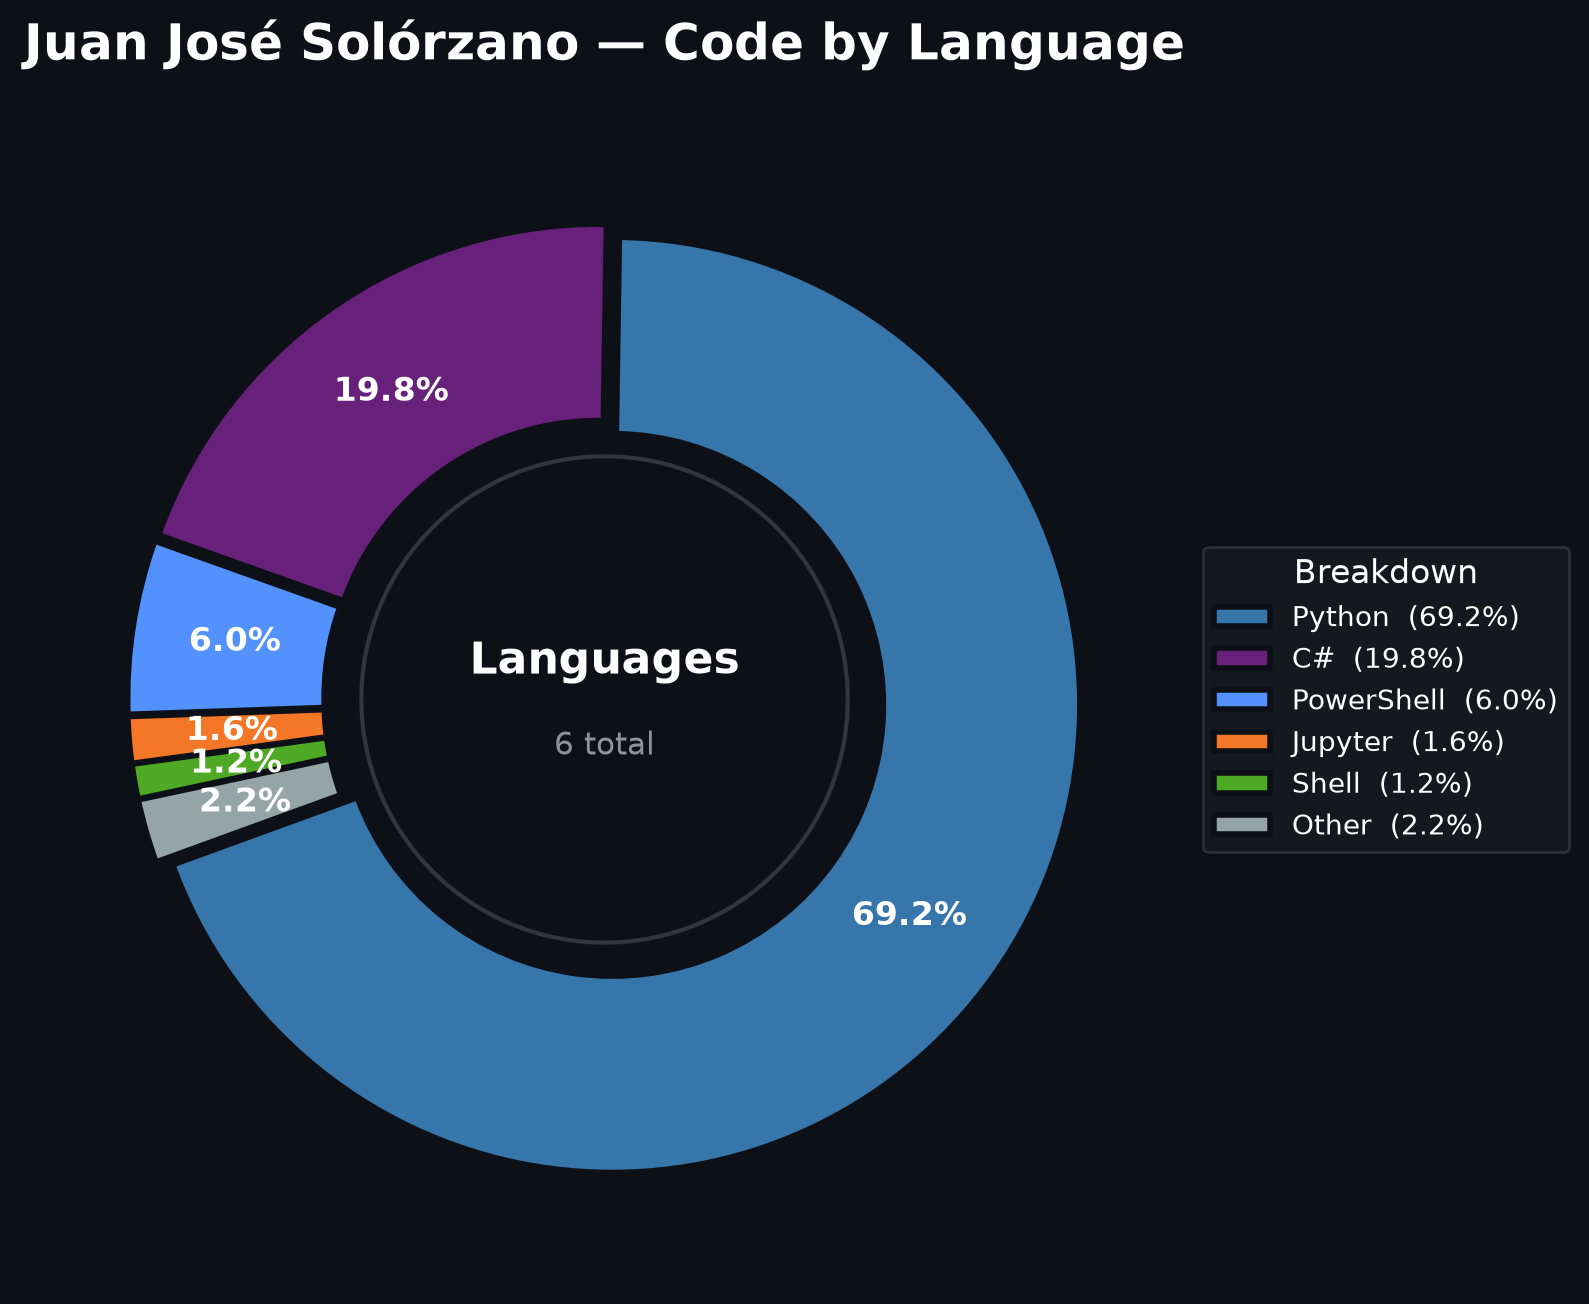
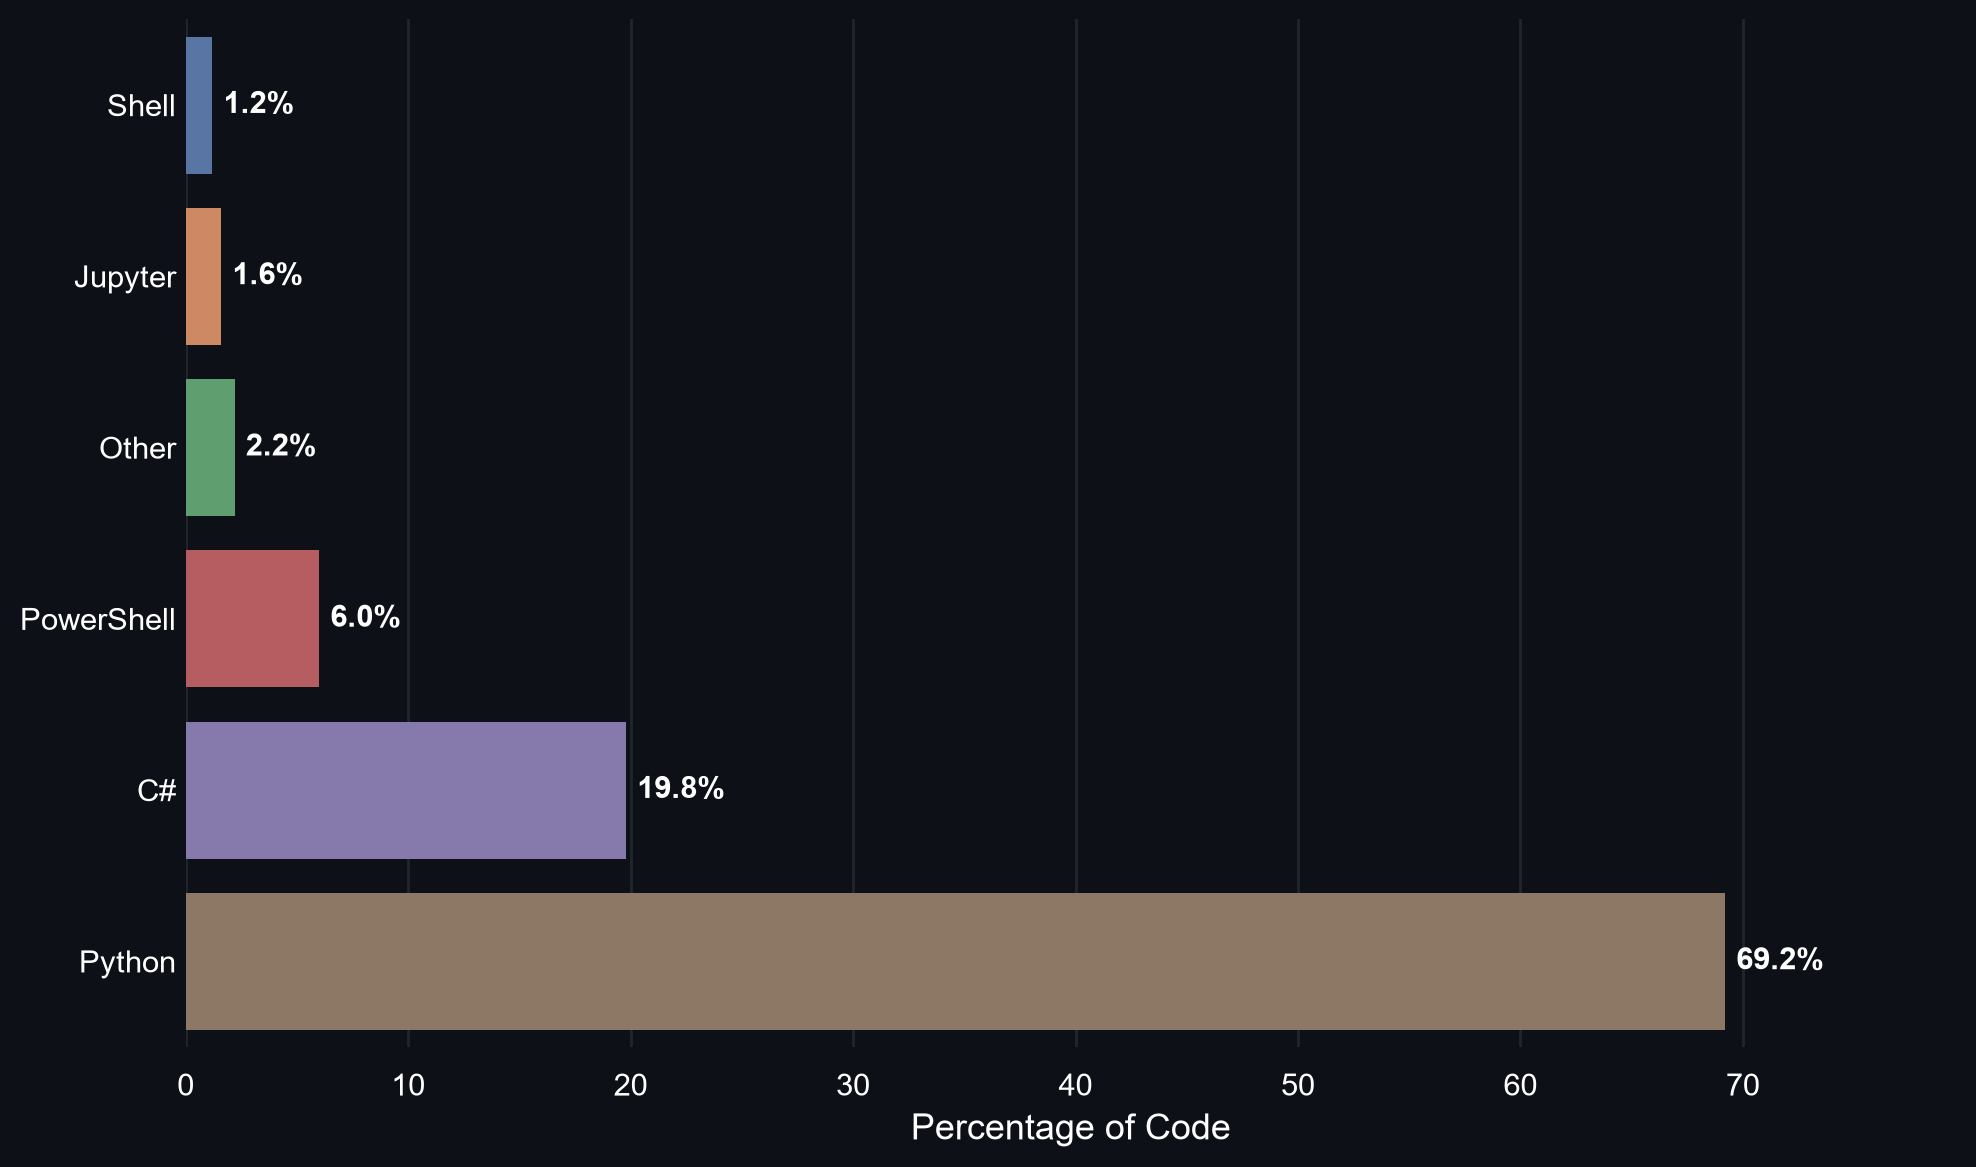
Updated: Readme.md file move to the main folder.

diff --git a/.github/scripts/chart.py b/.github/scripts/chart.py
@@ -1,63 +1,74 @@
 """
-Generate a beautiful donut chart from language stats.
+Generate a beautiful horizontal bar chart from language stats.
+Uses seaborn for styling and matplotlib for customisation.
 Run: python chart.py
 Output: language_chart.png
 """
+import pandas as pd
 import matplotlib.pyplot as plt
-import matplotlib.font_manager as fm
-import numpy as np
+import seaborn as sns
 
 # --- Data from README ---
 languages = ["Python", "C#", "PowerShell", "Jupyter", "Shell", "Other"]
 sizes     = [69.2, 19.8, 6.0, 1.6, 1.2, 2.2]
-colors    = ["#3776AB", "#68217A", "#5391FE", "#F37726", "#4EAA25", "#95A5A6"]
-explode   = (0.02, 0.02, 0.02, 0.02, 0.02, 0.02)
 
-# --- Styling ---
-plt.style.use("dark_background")
-fig, ax = plt.subplots(figsize=(8, 8), facecolor="#0D1117")
-ax.set_facecolor("#0D1117")
+# Create a DataFrame for seaborn
+df = pd.DataFrame({"Language": languages, "Percentage": sizes})
+# Sort so the largest bar is at the top
+df = df.sort_values("Percentage", ascending=True)
 
-wedges, texts, autotexts = ax.pie(
-    sizes,
-    labels=None,
-    autopct="%1.1f%%",
-    startangle=200,
-    pctdistance=0.78,
-    colors=colors,
-    explode=explode,
-    wedgeprops={"width": 0.42, "edgecolor": "#0D1117", "linewidth": 2},
-    textprops={"color": "white", "fontsize": 12, "fontweight": "bold"},
+# --- Seaborn dark theme ---
+sns.set_theme(style="darkgrid", rc={
+    "figure.facecolor": "#0D1117",
+    "axes.facecolor": "#0D1117",
+    "text.color": "white",
+    "axes.labelcolor": "white",
+    "xtick.color": "white",
+    "ytick.color": "white",
+    "grid.color": "#21262D",
+})
+
+fig, ax = plt.subplots(figsize=(10, 6))
+
+# Create the horizontal bar chart (fix for seaborn v0.14+ deprecation)
+palette = sns.color_palette("deep", len(languages))
+bars = sns.barplot(
+    data=df,
+    y="Language",
+    x="Percentage",
+    hue="Language",          # assign y variable to hue to silence the warning
+    palette=palette,
+    legend=False,            # turn off redundant legend
+    ax=ax,
+    edgecolor="none",
+    linewidth=0,
 )
 
-# --- Centre circle for donut ---
-centre_circle = plt.Circle((0, 0), 0.52, fc="#0D1117", edgecolor="#30363D", linewidth=1.5)
-ax.add_artist(centre_circle)
+# Add percentage labels next to each bar
+for bar, pct in zip(bars.patches, df["Percentage"]):
+    width = bar.get_width()
+    ax.text(
+        width + 0.5,                 # slight offset from bar end
+        bar.get_y() + bar.get_height() / 2,
+        f"{pct:.1f}%",
+        va="center",
+        color="white",
+        fontsize=11,
+        fontweight="bold",
+    )
 
-# --- Centre label ---
-ax.text(0, 0.08, "Languages", ha="center", va="center", fontsize=16,
-        fontweight="bold", color="white")
-ax.text(0, -0.10, f"{len(languages)} total", ha="center", va="center", fontsize=11,
-        color="#8B949E")
+# --- Styling touches ---
+sns.despine(left=True, bottom=True)   # remove top/right/bottom spines
+ax.tick_params(axis="y", length=0)    # no tick marks on y-axis
+ax.grid(False, axis="y")              # no horizontal grid lines
+ax.set_xlim(0, max(sizes) * 1.15)     # extra space for labels
 
-# --- Legend ---
-legend_labels = [f"{lang}  ({sizes[i]}%)" for i, lang in enumerate(languages)]
-ax.legend(
-    wedges, legend_labels,
-    title="Breakdown",
-    loc="center left",
-    bbox_to_anchor=(1, 0, 0.5, 1),
-    labelcolor="white",
-    facecolor="#161B22",
-    edgecolor="#30363D",
-    fontsize=10,
-    title_fontsize=12,
-)
+# Labels and optional title
+ax.set_xlabel("Percentage of Code", fontsize=13, color="white")
+ax.set_ylabel("")
+# ax.set_title("Language Distribution", fontsize=18, fontweight="bold", pad=20)
 
-# --- Title ---
-ax.set_title("Juan José Solórzano — Code by Language", fontsize=18,
-             fontweight="bold", color="white", pad=20)
-
+# --- Save the figure ---
 plt.tight_layout()
 plt.savefig("language_chart.png", dpi=200, bbox_inches="tight", facecolor="#0D1117")
 plt.close()
